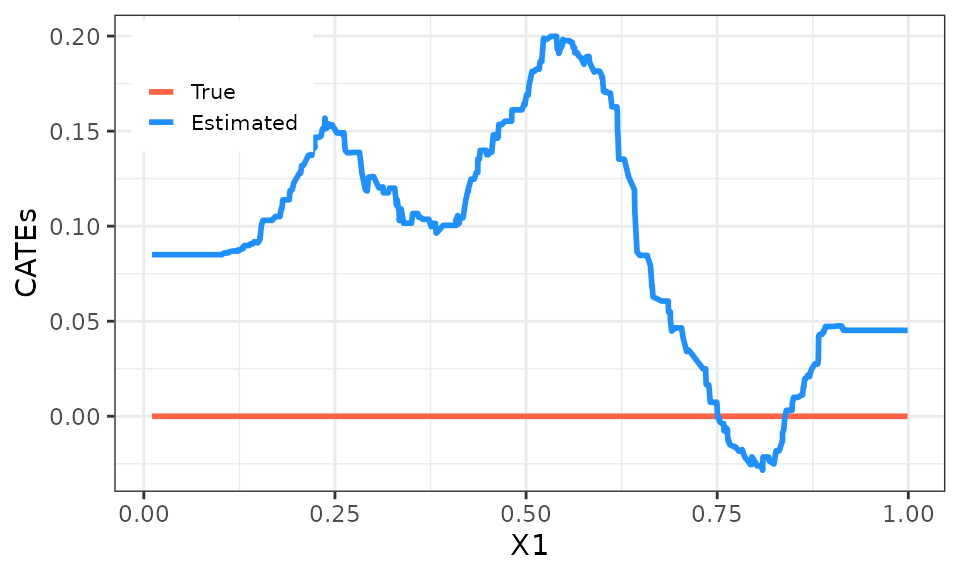
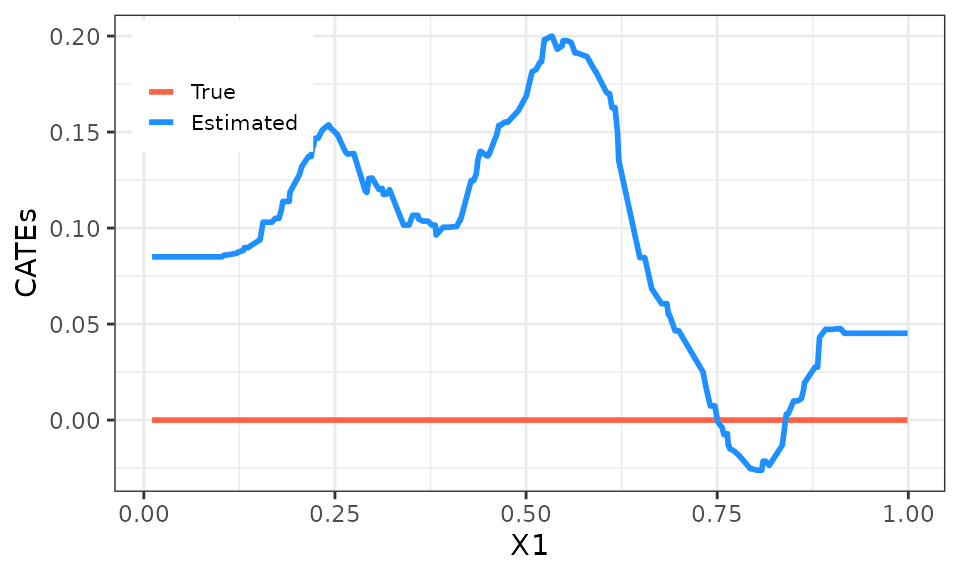
Deploying to gh-pages from @ riccardo-df/evaluCATE@b12cf13b4c23887a4d0b2b194d6a3c001fb44062 🚀

diff --git a/articles/evaluCATE-short-tutorial.html b/articles/evaluCATE-short-tutorial.html
@@ -180,14 +180,11 @@ heterogeneity.</p></li>
 <span></span>
 <span><span class="co">## CATEs estimation.</span></span>
 <span><span class="va">forest</span> <span class="op">&lt;-</span> <span class="fu"><a href="https://rdrr.io/pkg/grf/man/causal_forest.html" class="external-link">causal_forest</a></span><span class="op">(</span><span class="va">X_tr</span>, <span class="va">Y_tr</span>, <span class="va">D_tr</span><span class="op">)</span> <span class="co"># We use only the training sample.</span></span>
-<span><span class="va">forest_predictions</span> <span class="op">&lt;-</span> <span class="fu"><a href="https://rdrr.io/r/stats/predict.html" class="external-link">predict</a></span><span class="op">(</span><span class="va">forest</span>, <span class="va">X</span>, estimate.variance <span class="op">=</span> <span class="cn">TRUE</span><span class="op">)</span> <span class="co"># We predict on the full sample.</span></span>
-<span></span>
-<span><span class="va">cates</span> <span class="op">&lt;-</span> <span class="va">forest_predictions</span><span class="op">$</span><span class="va">predictions</span> </span>
-<span><span class="va">se</span> <span class="op">&lt;-</span> <span class="fu"><a href="https://rdrr.io/r/base/MathFun.html" class="external-link">sqrt</a></span><span class="op">(</span><span class="va">forest_predictions</span><span class="op">$</span><span class="va">variance.estimates</span><span class="op">)</span></span></code></pre></div>
+<span><span class="va">cates_val</span> <span class="op">&lt;-</span> <span class="fu"><a href="https://rdrr.io/r/stats/predict.html" class="external-link">predict</a></span><span class="op">(</span><span class="va">forest</span>, <span class="va">X_val</span><span class="op">)</span><span class="op">$</span><span class="va">predictions</span> <span class="co"># We predict on the validation sample.</span></span></code></pre></div>
 <p>We then display the out-of-sample estimated CATEs distribution:</p>
 <div class="sourceCode" id="cb3"><pre class="downlit sourceCode r">
 <code class="sourceCode R"><span><span class="co">## Plot out-of-sample predicted CATEs.</span></span>
-<span><span class="fu"><a href="https://rdrr.io/r/base/data.frame.html" class="external-link">data.frame</a></span><span class="op">(</span><span class="st">"cates"</span> <span class="op">=</span> <span class="va">cates</span><span class="op">[</span><span class="op">!</span><span class="va">train_idx</span><span class="op">]</span><span class="op">)</span> <span class="op">%&gt;%</span></span>
+<span><span class="fu"><a href="https://rdrr.io/r/base/data.frame.html" class="external-link">data.frame</a></span><span class="op">(</span><span class="st">"cates"</span> <span class="op">=</span> <span class="va">cates_val</span><span class="op">)</span> <span class="op">%&gt;%</span></span>
 <span>  <span class="fu">ggplot</span><span class="op">(</span><span class="fu">aes</span><span class="op">(</span>x <span class="op">=</span> <span class="va">cates</span><span class="op">)</span><span class="op">)</span> <span class="op">+</span></span>
 <span>  <span class="fu">geom_histogram</span><span class="op">(</span>color <span class="op">=</span> <span class="st">"black"</span>, fill <span class="op">=</span> <span class="st">"dodgerblue"</span>, alpha <span class="op">=</span> <span class="fl">0.4</span>, bins <span class="op">=</span> <span class="fl">10</span><span class="op">)</span> <span class="op">+</span> </span>
 <span>  <span class="fu">xlab</span><span class="op">(</span><span class="st">"Estimated CATEs"</span><span class="op">)</span> <span class="op">+</span> <span class="fu">ylab</span><span class="op">(</span><span class="st">"Density"</span><span class="op">)</span> <span class="op">+</span></span>
@@ -205,7 +202,7 @@ CATEs, as shown in the next figure where we overlay the true and the
 estimated CATEs.</p>
 <div class="sourceCode" id="cb4"><pre class="downlit sourceCode r">
 <code class="sourceCode R"><span><span class="co">## Plot true and estimated CATEs.</span></span>
-<span><span class="fu"><a href="https://rdrr.io/r/base/data.frame.html" class="external-link">data.frame</a></span><span class="op">(</span><span class="st">"x1"</span> <span class="op">=</span> <span class="va">X</span>, <span class="st">"true_cates"</span> <span class="op">=</span> <span class="va">mu1</span> <span class="op">-</span> <span class="va">mu0</span>, <span class="st">"estimated_cates"</span> <span class="op">=</span> <span class="va">cates</span><span class="op">)</span> <span class="op">%&gt;%</span></span>
+<span><span class="fu"><a href="https://rdrr.io/r/base/data.frame.html" class="external-link">data.frame</a></span><span class="op">(</span><span class="st">"x1"</span> <span class="op">=</span> <span class="va">X_val</span>, <span class="st">"true_cates"</span> <span class="op">=</span> <span class="va">mu1</span><span class="op">[</span><span class="op">!</span><span class="va">train_idx</span><span class="op">]</span> <span class="op">-</span> <span class="va">mu0</span><span class="op">[</span><span class="op">!</span><span class="va">train_idx</span><span class="op">]</span>, <span class="st">"estimated_cates"</span> <span class="op">=</span> <span class="va">cates_val</span><span class="op">)</span> <span class="op">%&gt;%</span></span>
 <span>  <span class="fu">melt</span><span class="op">(</span>id.vars <span class="op">=</span> <span class="st">"x1"</span><span class="op">)</span> <span class="op">%&gt;%</span></span>
 <span>  <span class="fu">ggplot</span><span class="op">(</span><span class="fu">aes</span><span class="op">(</span>x <span class="op">=</span> <span class="va">x1</span>, y <span class="op">=</span> <span class="va">value</span>, group <span class="op">=</span> <span class="va">variable</span>, color <span class="op">=</span> <span class="va">variable</span><span class="op">)</span><span class="op">)</span> <span class="op">+</span> </span>
 <span>  <span class="fu">geom_line</span><span class="op">(</span>linewidth <span class="op">=</span> <span class="fl">1</span><span class="op">)</span> <span class="op">+</span></span>
@@ -420,21 +417,18 @@ estimates can be used as an estimator of the standard error of <span class="math
 </h2>
 <p>The BLP, GATES, and RATEs can be estimated by calling the
 <code>evaluCATE</code> function. When calling this function, we need to
-supply the full sample using the first three arguments: <code>Y</code>,
-<code>D</code>, and <code>X</code>, corresponding to <span class="math inline">\(Y_i\)</span>, <span class="math inline">\(D_i\)</span>, and <span class="math inline">\(X_i\)</span>. Additionally, we must supply our
-CATE predictions on the full sample <span class="math inline">\(\hat{\tau} ( X_i )\)</span> obtained using only
-the training sample by using the <code>cates</code> argument. Finally,
-we must supply a logical vector with the <code>TRUE</code>s denoting
-those observations used to estimate the CATEs by using the
-<code>is_train</code> argument, so that the <code>evaluCATE</code>
-function knows which observations must be used to post-process our CATEs
-estimates.</p>
+supply our sample using the first six arguments: <code>Y_tr</code>,
+<code>Y_val</code>, <code>D_tr</code>, <code>D_val</code>,
+<code>X_tr</code>, and <code>X_val</code>, corresponding to <span class="math inline">\(Y_i\)</span>, <span class="math inline">\(D_i\)</span>, and <span class="math inline">\(X_i\)</span> separately for the training and
+validation subsamples. Additionally, we must supply our CATE predictions
+on the validation sample <span class="math inline">\(\hat{\tau} ( X_i
+)\)</span> by using the <code>cates_val</code> argument. Be careful, as
+these predictions must be produced by a model estimated using only the
+training sample.</p>
 <p>We also have four optional arguments that we can use to supply
-estimates of the nuisance functions <span class="math inline">\(p (
-\cdot )\)</span>, <span class="math inline">\(\mu ( \cdot )\)</span>,
-<span class="math inline">\(\mu_0 ( \cdot )\)</span>, and <span class="math inline">\(\mu_1 ( \cdot )\)</span>. Be careful, as these
-estimates must be obtained using only the training sample. If not
-provided by the user, these functions are estimated internally via
+predictins on the validation sample of the nuisance functions <span class="math inline">\(p ( \cdot )\)</span>, <span class="math inline">\(\mu ( \cdot )\)</span>, <span class="math inline">\(\mu_0 ( \cdot )\)</span>, and <span class="math inline">\(\mu_1 ( \cdot )\)</span>. Again, these predictions
+must be produced by models estimated using only the training sample. If
+not provided by the user, these functions are estimated internally via
 honest regression forests using only the training sample. In our
 Motivating Example, we have knowledge of the actual propensity score,
 which equals <span class="math inline">\(0.5\)</span> for all units. We
@@ -454,8 +448,8 @@ be beneficial, and we prevent the function from printing the
 progresses.</p>
 <div class="sourceCode" id="cb5"><pre class="downlit sourceCode r">
 <code class="sourceCode R"><span><span class="co">## Call main function.</span></span>
-<span><span class="va">pscore</span> <span class="op">&lt;-</span> <span class="fu"><a href="https://rdrr.io/r/base/rep.html" class="external-link">rep</a></span><span class="op">(</span><span class="fl">0.5</span>, <span class="fu"><a href="https://rdrr.io/r/base/length.html" class="external-link">length</a></span><span class="op">(</span><span class="va">Y</span><span class="op">)</span><span class="op">)</span> <span class="co"># True propensity scores.</span></span>
-<span><span class="va">evaluation</span> <span class="op">&lt;-</span> <span class="fu"><a href="../reference/evaluCATE.html">evaluCATE</a></span><span class="op">(</span><span class="va">Y</span>, <span class="va">D</span>, <span class="va">X</span>, <span class="va">cates</span>, <span class="va">train_idx</span>, pscore <span class="op">=</span> <span class="va">pscore</span>, verbose <span class="op">=</span> <span class="cn">FALSE</span><span class="op">)</span></span></code></pre></div>
+<span><span class="va">pscore_val</span> <span class="op">&lt;-</span> <span class="fu"><a href="https://rdrr.io/r/base/rep.html" class="external-link">rep</a></span><span class="op">(</span><span class="fl">0.5</span>, <span class="fu"><a href="https://rdrr.io/r/base/length.html" class="external-link">length</a></span><span class="op">(</span><span class="va">Y_val</span><span class="op">)</span><span class="op">)</span> <span class="co"># True propensity scores.</span></span>
+<span><span class="va">evaluation</span> <span class="op">&lt;-</span> <span class="fu"><a href="../reference/evaluCATE.html">evaluCATE</a></span><span class="op">(</span><span class="va">Y_tr</span>, <span class="va">Y_val</span>, <span class="va">D_tr</span>, <span class="va">D_val</span>, <span class="va">X_tr</span>, <span class="va">X_val</span>, <span class="va">cates_val</span>, pscore_val <span class="op">=</span> <span class="va">pscore_val</span>, verbose <span class="op">=</span> <span class="cn">FALSE</span><span class="op">)</span></span></code></pre></div>
 <p>Let us have a look at the results. The <code>summary</code> method
 allows us to visualize the results of the BLP and RATE estimation if the
 <code>target</code> argument is set to <code>BLP</code> or the results

diff --git a/reference/evaluCATE.html b/reference/evaluCATE.html
@@ -64,15 +64,17 @@ the estimated CATEs.</p>
 
     <div id="ref-usage">
     <div class="sourceCode"><pre class="sourceCode r"><code><span><span class="fu">evaluCATE</span><span class="op">(</span></span>
-<span>  <span class="va">Y</span>,</span>
-<span>  <span class="va">D</span>,</span>
-<span>  <span class="va">X</span>,</span>
-<span>  <span class="va">cates</span>,</span>
-<span>  <span class="va">is_train</span>,</span>
-<span>  pscore <span class="op">=</span> <span class="cn">NULL</span>,</span>
-<span>  mu <span class="op">=</span> <span class="cn">NULL</span>,</span>
-<span>  mu0 <span class="op">=</span> <span class="cn">NULL</span>,</span>
-<span>  mu1 <span class="op">=</span> <span class="cn">NULL</span>,</span>
+<span>  <span class="va">Y_tr</span>,</span>
+<span>  <span class="va">Y_val</span>,</span>
+<span>  <span class="va">D_tr</span>,</span>
+<span>  <span class="va">D_val</span>,</span>
+<span>  <span class="va">X_tr</span>,</span>
+<span>  <span class="va">X_val</span>,</span>
+<span>  <span class="va">cates_val</span>,</span>
+<span>  pscore_val <span class="op">=</span> <span class="cn">NULL</span>,</span>
+<span>  mu_val <span class="op">=</span> <span class="cn">NULL</span>,</span>
+<span>  mu0_val <span class="op">=</span> <span class="cn">NULL</span>,</span>
+<span>  mu1_val <span class="op">=</span> <span class="cn">NULL</span>,</span>
 <span>  n_groups <span class="op">=</span> <span class="fl">5</span>,</span>
 <span>  beneficial <span class="op">=</span> <span class="cn">TRUE</span>,</span>
 <span>  n_boot <span class="op">=</span> <span class="fl">200</span>,</span>
@@ -82,40 +84,48 @@ the estimated CATEs.</p>
 
     <div id="arguments">
     <h2>Arguments</h2>
-    <dl><dt>Y</dt>
-<dd><p>Observed outcomes.</p></dd>
+    <dl><dt>Y_tr</dt>
+<dd><p>Observed outcomes from the training sample.</p></dd>
 
 
-<dt>D</dt>
-<dd><p>Treatment indicator.</p></dd>
+<dt>Y_val</dt>
+<dd><p>Observed outcomes from the validation sample.</p></dd>
 
 
-<dt>X</dt>
-<dd><p>Covariate matrix (no intercept).</p></dd>
+<dt>D_tr</dt>
+<dd><p>Treatment indicator for the training sample.</p></dd>
 
 
-<dt>cates</dt>
-<dd><p>Estimated CATEs. Must be estimated using only the training sample.</p></dd>
+<dt>D_val</dt>
+<dd><p>Treatment indicator for the validation sample.</p></dd>
 
 
-<dt>is_train</dt>
-<dd><p>Logical vector denoting which observations belong to the training sample.</p></dd>
+<dt>X_tr</dt>
+<dd><p>Covariate matrix for the training sample (no intercept).</p></dd>
 
 
-<dt>pscore</dt>
-<dd><p>Propensity scores. If unknown, must be estimated using only the training sample.</p></dd>
+<dt>X_val</dt>
+<dd><p>Covariate matrix for the validation sample (no intercept).</p></dd>
 
 
-<dt>mu</dt>
-<dd><p>Estimated regression function. Must be estimated using only the training sample.</p></dd>
+<dt>cates_val</dt>
+<dd><p>CATE predictions on the validation sample. Must be produced by a model estimated using only the training sample.</p></dd>
 
 
-<dt>mu0</dt>
-<dd><p>Estimated regression function for control units. Must be estimated using only the training sample.</p></dd>
+<dt>pscore_val</dt>
+<dd><p>Propensity scores predictions on the validation sample. Must be produced by a model estimated using only the training sample (unless the propensity score is known, in which case we provide the true values).</p></dd>
 
 
-<dt>mu1</dt>
-<dd><p>Estimated regression function for treated units. Must be estimated using only the training sample.</p></dd>
+<dt>mu_val</dt>
+<dd><p>Conditional mean predictions on the validation sample. Must be produced by a model estimated using only the training sample.</p></dd>
+
+
+<dt>mu0_val</dt>
+<dd><p>Control units' conditional mean predictions on the validation sample. Must be produced by a model estimated using only the training sample.</p></dd>
+
+
+<dt>mu1_val</dt>
+<dd><p>Treated units' conditional mean predictions on the validation sample. Must be produced by a model estimated using only the training sample.</p></dd>
 
 
 <dt>n_groups</dt>
@@ -142,11 +152,8 @@ the estimated CATEs.</p>
     </div>
     <div id="details">
     <h2>Details</h2>
-    <p>To estimate BLP, GATES, and RATEs, the user must provide observations on the outcomes, the treatment status, and the covariates of units in the whole sample, as well
-as their estimated CATEs. Be careful, as although the CATEs must be estimated only with part of the sample (which we call the training sample), they must be predicted
-on the whole sample <code>X</code> when passed in <code>evaluCATE</code> (see the example section below).<br></p>
-<p>To let the function know which observations were used for the CATEs estimation, the user must also provide a logical vector with the <code>TRUE</code>s denoting observations in the
-training sample. This way, <code>evaluCATE</code> knows which observations to use to post-process the CATEs estimates.<br></p>
+    <p>To estimate BLP, GATES, and RATEs, the user must provide observations on the outcomes, the treatment status, and the covariates of units in the training and validation samples separately.
+Additionally, the user must provide CATE predictions on the validation sample obtained from a model estimated using only the training sample.<br></p>
 <p><code>evaluCATE</code> implements a number of strategies to estimate the BLP and the GATES. Most of them involve fitting a suitable linear model. The linear models differ according to the
 different identification strategies. Furthermore, for each strategy, there exist various sets of constructed covariates that one can add to reduce the variance of the estimation. <code>evaluCATE</code>
 fits and returns all these possible models. GATES are also estimated using a nonparametric approach. Check the online
@@ -204,11 +211,11 @@ via honest <code><a href="https://rdrr.io/pkg/grf/man/regression_forest.html" cl
 <span class="r-in"><span><span class="kw"><a href="https://rdrr.io/r/base/library.html" class="external-link">library</a></span><span class="op">(</span><span class="va"><a href="https://github.com/grf-labs/grf" class="external-link">grf</a></span><span class="op">)</span></span></span>
 <span class="r-in"><span></span></span>
 <span class="r-in"><span><span class="va">forest</span> <span class="op">&lt;-</span> <span class="fu"><a href="https://rdrr.io/pkg/grf/man/causal_forest.html" class="external-link">causal_forest</a></span><span class="op">(</span><span class="va">X_tr</span>, <span class="va">Y_tr</span>, <span class="va">D_tr</span><span class="op">)</span> <span class="co"># We use only the training sample.</span></span></span>
-<span class="r-in"><span><span class="va">cates</span> <span class="op">&lt;-</span> <span class="fu"><a href="https://rdrr.io/r/stats/predict.html" class="external-link">predict</a></span><span class="op">(</span><span class="va">forest</span>, <span class="va">X</span><span class="op">)</span><span class="op">$</span><span class="va">predictions</span> <span class="co"># We predict on the whole sample.</span></span></span>
+<span class="r-in"><span><span class="va">cates_val</span> <span class="op">&lt;-</span> <span class="fu"><a href="https://rdrr.io/r/stats/predict.html" class="external-link">predict</a></span><span class="op">(</span><span class="va">forest</span>, <span class="va">X_val</span><span class="op">)</span><span class="op">$</span><span class="va">predictions</span> <span class="co"># We predict on the validation sample.</span></span></span>
 <span class="r-in"><span></span></span>
 <span class="r-in"><span><span class="co">## CATEs evaluation. Estimate all nuisances internally. </span></span></span>
-<span class="r-in"><span><span class="va">pscore</span> <span class="op">&lt;-</span> <span class="fu"><a href="https://rdrr.io/r/base/rep.html" class="external-link">rep</a></span><span class="op">(</span><span class="fl">0.5</span>, <span class="fu"><a href="https://rdrr.io/r/base/length.html" class="external-link">length</a></span><span class="op">(</span><span class="va">Y</span><span class="op">)</span><span class="op">)</span></span></span>
-<span class="r-in"><span><span class="va">evaluation</span> <span class="op">&lt;-</span> <span class="fu">evaluCATE</span><span class="op">(</span><span class="va">Y</span>, <span class="va">D</span>, <span class="va">X</span>, <span class="va">cates</span>, <span class="va">train_idx</span>, pscore <span class="op">=</span> <span class="va">pscore</span><span class="op">)</span></span></span>
+<span class="r-in"><span><span class="va">pscore_val</span> <span class="op">&lt;-</span> <span class="fu"><a href="https://rdrr.io/r/base/rep.html" class="external-link">rep</a></span><span class="op">(</span><span class="fl">0.5</span>, <span class="fu"><a href="https://rdrr.io/r/base/length.html" class="external-link">length</a></span><span class="op">(</span><span class="va">Y_val</span><span class="op">)</span><span class="op">)</span></span></span>
+<span class="r-in"><span><span class="va">evaluation</span> <span class="op">&lt;-</span> <span class="fu">evaluCATE</span><span class="op">(</span><span class="va">Y_tr</span>, <span class="va">Y_val</span>, <span class="va">D_tr</span>, <span class="va">D_val</span>, <span class="va">X_tr</span>, <span class="va">X_val</span>, <span class="va">cates_val</span>, pscore_val <span class="op">=</span> <span class="va">pscore_val</span><span class="op">)</span></span></span>
 <span class="r-out co"><span class="r-pr">#&gt;</span> Estimating nuisance functions and AIPW scores; </span>
 <span class="r-out co"><span class="r-pr">#&gt;</span> BLP estimation; </span>
 <span class="r-out co"><span class="r-pr">#&gt;</span> GATES estimation; </span>

diff --git a/reference/plot.evaluCATE.html b/reference/plot.evaluCATE.html
@@ -119,11 +119,11 @@
 <span class="r-in"><span><span class="kw"><a href="https://rdrr.io/r/base/library.html" class="external-link">library</a></span><span class="op">(</span><span class="va"><a href="https://github.com/grf-labs/grf" class="external-link">grf</a></span><span class="op">)</span></span></span>
 <span class="r-in"><span></span></span>
 <span class="r-in"><span><span class="va">forest</span> <span class="op">&lt;-</span> <span class="fu"><a href="https://rdrr.io/pkg/grf/man/causal_forest.html" class="external-link">causal_forest</a></span><span class="op">(</span><span class="va">X_tr</span>, <span class="va">Y_tr</span>, <span class="va">D_tr</span><span class="op">)</span> <span class="co"># We use only the training sample.</span></span></span>
-<span class="r-in"><span><span class="va">cates</span> <span class="op">&lt;-</span> <span class="fu"><a href="https://rdrr.io/r/stats/predict.html" class="external-link">predict</a></span><span class="op">(</span><span class="va">forest</span>, <span class="va">X</span><span class="op">)</span><span class="op">$</span><span class="va">predictions</span> <span class="co"># We predict on the whole sample.</span></span></span>
+<span class="r-in"><span><span class="va">cates_val</span> <span class="op">&lt;-</span> <span class="fu"><a href="https://rdrr.io/r/stats/predict.html" class="external-link">predict</a></span><span class="op">(</span><span class="va">forest</span>, <span class="va">X_val</span><span class="op">)</span><span class="op">$</span><span class="va">predictions</span> <span class="co"># We predict on the validation sample.</span></span></span>
 <span class="r-in"><span></span></span>
 <span class="r-in"><span><span class="co">## CATEs evaluation. Estimate all nuisances internally. </span></span></span>
-<span class="r-in"><span><span class="va">pscore</span> <span class="op">&lt;-</span> <span class="fu"><a href="https://rdrr.io/r/base/rep.html" class="external-link">rep</a></span><span class="op">(</span><span class="fl">0.5</span>, <span class="fu"><a href="https://rdrr.io/r/base/length.html" class="external-link">length</a></span><span class="op">(</span><span class="va">Y</span><span class="op">)</span><span class="op">)</span></span></span>
-<span class="r-in"><span><span class="va">evaluation</span> <span class="op">&lt;-</span> <span class="fu"><a href="evaluCATE.html">evaluCATE</a></span><span class="op">(</span><span class="va">Y</span>, <span class="va">D</span>, <span class="va">X</span>, <span class="va">cates</span>, <span class="va">train_idx</span>, pscore <span class="op">=</span> <span class="va">pscore</span><span class="op">)</span></span></span>
+<span class="r-in"><span><span class="va">pscore_val</span> <span class="op">&lt;-</span> <span class="fu"><a href="https://rdrr.io/r/base/rep.html" class="external-link">rep</a></span><span class="op">(</span><span class="fl">0.5</span>, <span class="fu"><a href="https://rdrr.io/r/base/length.html" class="external-link">length</a></span><span class="op">(</span><span class="va">Y_val</span><span class="op">)</span><span class="op">)</span></span></span>
+<span class="r-in"><span><span class="va">evaluation</span> <span class="op">&lt;-</span> <span class="fu"><a href="evaluCATE.html">evaluCATE</a></span><span class="op">(</span><span class="va">Y_tr</span>, <span class="va">Y_val</span>, <span class="va">D_tr</span>, <span class="va">D_val</span>, <span class="va">X_tr</span>, <span class="va">X_val</span>, <span class="va">cates_val</span>, pscore_val <span class="op">=</span> <span class="va">pscore_val</span><span class="op">)</span></span></span>
 <span class="r-out co"><span class="r-pr">#&gt;</span> Estimating nuisance functions and AIPW scores; </span>
 <span class="r-out co"><span class="r-pr">#&gt;</span> BLP estimation; </span>
 <span class="r-out co"><span class="r-pr">#&gt;</span> GATES estimation; </span>

diff --git a/reference/print.evaluCATE.html b/reference/print.evaluCATE.html
@@ -131,11 +131,11 @@
 <span class="r-in"><span><span class="kw"><a href="https://rdrr.io/r/base/library.html" class="external-link">library</a></span><span class="op">(</span><span class="va"><a href="https://github.com/grf-labs/grf" class="external-link">grf</a></span><span class="op">)</span></span></span>
 <span class="r-in"><span></span></span>
 <span class="r-in"><span><span class="va">forest</span> <span class="op">&lt;-</span> <span class="fu"><a href="https://rdrr.io/pkg/grf/man/causal_forest.html" class="external-link">causal_forest</a></span><span class="op">(</span><span class="va">X_tr</span>, <span class="va">Y_tr</span>, <span class="va">D_tr</span><span class="op">)</span> <span class="co"># We use only the training sample.</span></span></span>
-<span class="r-in"><span><span class="va">cates</span> <span class="op">&lt;-</span> <span class="fu"><a href="https://rdrr.io/r/stats/predict.html" class="external-link">predict</a></span><span class="op">(</span><span class="va">forest</span>, <span class="va">X</span><span class="op">)</span><span class="op">$</span><span class="va">predictions</span> <span class="co"># We predict on the whole sample.</span></span></span>
+<span class="r-in"><span><span class="va">cates_val</span> <span class="op">&lt;-</span> <span class="fu"><a href="https://rdrr.io/r/stats/predict.html" class="external-link">predict</a></span><span class="op">(</span><span class="va">forest</span>, <span class="va">X_val</span><span class="op">)</span><span class="op">$</span><span class="va">predictions</span> <span class="co"># We predict on the validation sample.</span></span></span>
 <span class="r-in"><span></span></span>
 <span class="r-in"><span><span class="co">## CATEs evaluation. Estimate all nuisances internally. </span></span></span>
-<span class="r-in"><span><span class="va">pscore</span> <span class="op">&lt;-</span> <span class="fu"><a href="https://rdrr.io/r/base/rep.html" class="external-link">rep</a></span><span class="op">(</span><span class="fl">0.5</span>, <span class="fu"><a href="https://rdrr.io/r/base/length.html" class="external-link">length</a></span><span class="op">(</span><span class="va">Y</span><span class="op">)</span><span class="op">)</span></span></span>
-<span class="r-in"><span><span class="va">evaluation</span> <span class="op">&lt;-</span> <span class="fu"><a href="evaluCATE.html">evaluCATE</a></span><span class="op">(</span><span class="va">Y</span>, <span class="va">D</span>, <span class="va">X</span>, <span class="va">cates</span>, <span class="va">train_idx</span>, pscore <span class="op">=</span> <span class="va">pscore</span><span class="op">)</span></span></span>
+<span class="r-in"><span><span class="va">pscore_val</span> <span class="op">&lt;-</span> <span class="fu"><a href="https://rdrr.io/r/base/rep.html" class="external-link">rep</a></span><span class="op">(</span><span class="fl">0.5</span>, <span class="fu"><a href="https://rdrr.io/r/base/length.html" class="external-link">length</a></span><span class="op">(</span><span class="va">Y_val</span><span class="op">)</span><span class="op">)</span></span></span>
+<span class="r-in"><span><span class="va">evaluation</span> <span class="op">&lt;-</span> <span class="fu"><a href="evaluCATE.html">evaluCATE</a></span><span class="op">(</span><span class="va">Y_tr</span>, <span class="va">Y_val</span>, <span class="va">D_tr</span>, <span class="va">D_val</span>, <span class="va">X_tr</span>, <span class="va">X_val</span>, <span class="va">cates_val</span>, pscore_val <span class="op">=</span> <span class="va">pscore_val</span><span class="op">)</span></span></span>
 <span class="r-out co"><span class="r-pr">#&gt;</span> Estimating nuisance functions and AIPW scores; </span>
 <span class="r-out co"><span class="r-pr">#&gt;</span> BLP estimation; </span>
 <span class="r-out co"><span class="r-pr">#&gt;</span> GATES estimation; </span>

diff --git a/reference/summary.evaluCATE.html b/reference/summary.evaluCATE.html
@@ -135,11 +135,11 @@
 <span class="r-in"><span><span class="kw"><a href="https://rdrr.io/r/base/library.html" class="external-link">library</a></span><span class="op">(</span><span class="va"><a href="https://github.com/grf-labs/grf" class="external-link">grf</a></span><span class="op">)</span></span></span>
 <span class="r-in"><span></span></span>
 <span class="r-in"><span><span class="va">forest</span> <span class="op">&lt;-</span> <span class="fu"><a href="https://rdrr.io/pkg/grf/man/causal_forest.html" class="external-link">causal_forest</a></span><span class="op">(</span><span class="va">X_tr</span>, <span class="va">Y_tr</span>, <span class="va">D_tr</span><span class="op">)</span> <span class="co"># We use only the training sample.</span></span></span>
-<span class="r-in"><span><span class="va">cates</span> <span class="op">&lt;-</span> <span class="fu"><a href="https://rdrr.io/r/stats/predict.html" class="external-link">predict</a></span><span class="op">(</span><span class="va">forest</span>, <span class="va">X</span><span class="op">)</span><span class="op">$</span><span class="va">predictions</span> <span class="co"># We predict on the whole sample.</span></span></span>
+<span class="r-in"><span><span class="va">cates_val</span> <span class="op">&lt;-</span> <span class="fu"><a href="https://rdrr.io/r/stats/predict.html" class="external-link">predict</a></span><span class="op">(</span><span class="va">forest</span>, <span class="va">X_val</span><span class="op">)</span><span class="op">$</span><span class="va">predictions</span> <span class="co"># We predict on the validation sample.</span></span></span>
 <span class="r-in"><span></span></span>
 <span class="r-in"><span><span class="co">## CATEs evaluation. Estimate all nuisances internally. </span></span></span>
-<span class="r-in"><span><span class="va">pscore</span> <span class="op">&lt;-</span> <span class="fu"><a href="https://rdrr.io/r/base/rep.html" class="external-link">rep</a></span><span class="op">(</span><span class="fl">0.5</span>, <span class="fu"><a href="https://rdrr.io/r/base/length.html" class="external-link">length</a></span><span class="op">(</span><span class="va">Y</span><span class="op">)</span><span class="op">)</span></span></span>
-<span class="r-in"><span><span class="va">evaluation</span> <span class="op">&lt;-</span> <span class="fu"><a href="evaluCATE.html">evaluCATE</a></span><span class="op">(</span><span class="va">Y</span>, <span class="va">D</span>, <span class="va">X</span>, <span class="va">cates</span>, <span class="va">train_idx</span>, pscore <span class="op">=</span> <span class="va">pscore</span><span class="op">)</span></span></span>
+<span class="r-in"><span><span class="va">pscore_val</span> <span class="op">&lt;-</span> <span class="fu"><a href="https://rdrr.io/r/base/rep.html" class="external-link">rep</a></span><span class="op">(</span><span class="fl">0.5</span>, <span class="fu"><a href="https://rdrr.io/r/base/length.html" class="external-link">length</a></span><span class="op">(</span><span class="va">Y_val</span><span class="op">)</span><span class="op">)</span></span></span>
+<span class="r-in"><span><span class="va">evaluation</span> <span class="op">&lt;-</span> <span class="fu"><a href="evaluCATE.html">evaluCATE</a></span><span class="op">(</span><span class="va">Y_tr</span>, <span class="va">Y_val</span>, <span class="va">D_tr</span>, <span class="va">D_val</span>, <span class="va">X_tr</span>, <span class="va">X_val</span>, <span class="va">cates_val</span>, pscore_val <span class="op">=</span> <span class="va">pscore_val</span><span class="op">)</span></span></span>
 <span class="r-out co"><span class="r-pr">#&gt;</span> Estimating nuisance functions and AIPW scores; </span>
 <span class="r-out co"><span class="r-pr">#&gt;</span> BLP estimation; </span>
 <span class="r-out co"><span class="r-pr">#&gt;</span> GATES estimation; </span>

diff --git a/reference/blp_estimation.html b/reference/blp_estimation.html
@@ -73,27 +73,27 @@
 
 
 <dt>cates</dt>
-<dd><p>Estimated CATEs. Must be estimated with different observations than those in <code>Y</code> and <code>D</code>.</p></dd>
+<dd><p>CATE predictions. Must be produced by a model estimated using different observations than those in <code>Y</code> and <code>D</code>.</p></dd>
 
 
 <dt>pscore</dt>
-<dd><p>Propensity scores. If unknown, must be estimated using different observations than those in <code>Y</code> and <code>D</code>.</p></dd>
+<dd><p>Propensity scores predictions. Must be produced by a model estimated using different observations than those in <code>Y</code> and <code>D</code> (unless the propensity score is known, in which case we provide the true values).</p></dd>
 
 
 <dt>mu</dt>
-<dd><p>Estimated regression function. Must be estimated with different observations than those in <code>Y</code> and <code>D</code>.</p></dd>
+<dd><p>Conditional mean predictions. Must be produced by a model estimated using different observations than those in <code>Y</code> and <code>D</code></p></dd>
 
 
 <dt>mu0</dt>
-<dd><p>Estimated regression function for control units. Must be estimated with different observations than those in <code>Y</code> and <code>D</code>.</p></dd>
+<dd><p>Control units' conditional mean predictions. Must be produced by a model estimated using different observations than those in <code>Y</code> and <code>D</code></p></dd>
 
 
 <dt>mu1</dt>
-<dd><p>Estimated regression function for treated units. Must be estimated with different observations than those in <code>Y</code> and <code>D</code>.</p></dd>
+<dd><p>Treated units' conditional mean predictions. Must be produced by a model estimated using different observations than those in <code>Y</code> and <code>D</code></p></dd>
 
 
 <dt>scores</dt>
-<dd><p>Estimated doubly-robust scores. Must be estimated via K-fold cross-fitting with the same observations as in <code>Y</code> and <code>D</code>.</p></dd>
+<dd><p>Estimated doubly-robust scores. Must be estimated via K-fold cross-fitting using the same observations as in <code>Y</code> and <code>D</code>.</p></dd>
 
 </dl></div>
     <div id="value">

diff --git a/reference/gates_estimation.html b/reference/gates_estimation.html
@@ -73,27 +73,27 @@
 
 
 <dt>cates</dt>
-<dd><p>Estimated CATEs. Must be estimated with different observations than those in <code>Y</code> and <code>D</code>.</p></dd>
+<dd><p>CATE predictions. Must be produced by a model estimated using different observations than those in <code>Y</code> and <code>D</code>.</p></dd>
 
 
 <dt>pscore</dt>
-<dd><p>Propensity scores. If unknown, must be estimated using different observations than those in <code>Y</code> and <code>D</code>.</p></dd>
+<dd><p>Propensity scores predictions. Must be produced by a model estimated using different observations than those in <code>Y</code> and <code>D</code> (unless the propensity score is known, in which case we provide the true values).</p></dd>
 
 
 <dt>mu</dt>
-<dd><p>Estimated regression function. Must be estimated with different observations than those in <code>Y</code> and <code>D</code>.</p></dd>
+<dd><p>Conditional mean predictions. Must be produced by a model estimated using different observations than those in <code>Y</code> and <code>D</code></p></dd>
 
 
 <dt>mu0</dt>
-<dd><p>Estimated regression function for control units. Must be estimated with different observations than those in <code>Y</code> and <code>D</code>.</p></dd>
+<dd><p>Control units' conditional mean predictions. Must be produced by a model estimated using different observations than those in <code>Y</code> and <code>D</code></p></dd>
 
 
 <dt>mu1</dt>
-<dd><p>Estimated regression function for treated units. Must be estimated with different observations than those in <code>Y</code> and <code>D</code>.</p></dd>
+<dd><p>Treated units' conditional mean predictions. Must be produced by a model estimated using different observations than those in <code>Y</code> and <code>D</code></p></dd>
 
 
 <dt>scores</dt>
-<dd><p>Estimated doubly-robust scores. Must be estimated via K-fold cross-fitting with the same observations as in <code>Y</code> and <code>D</code>.</p></dd>
+<dd><p>Estimated doubly-robust scores. Must be estimated via K-fold cross-fitting using the same observations as in <code>Y</code> and <code>D</code>.</p></dd>
 
 
 <dt>n_groups</dt>

diff --git a/articles/denoising.html b/articles/denoising.html
@@ -115,7 +115,7 @@ honest regression forests using only the training sample.</p>
 <p>Suppose that we assign the results of the <code>evaluCATE</code>
 function call to a variable called <code>evaluation</code>.</p>
 <div class="sourceCode" id="cb1"><pre class="downlit sourceCode r">
-<code class="sourceCode R"><span><span class="va">evaluation</span> <span class="op">&lt;-</span> <span class="fu"><a href="../reference/evaluCATE.html">evaluCATE</a></span><span class="op">(</span><span class="va">Y</span>, <span class="va">D</span>, <span class="va">X</span>, <span class="va">cates</span>, is_train <span class="op">=</span> <span class="va">train_idx</span><span class="op">)</span></span></code></pre></div>
+<code class="sourceCode R"><span><span class="va">evaluation</span> <span class="op">&lt;-</span> <span class="fu"><a href="../reference/evaluCATE.html">evaluCATE</a></span><span class="op">(</span><span class="va">Y_tr</span>, <span class="va">Y_val</span>, <span class="va">D_tr</span>, <span class="va">D_val</span>, <span class="va">X_tr</span>, <span class="va">X_val</span>, <span class="va">cates_val</span><span class="op">)</span></span></code></pre></div>
 <p>In the following, we list the covariates that are included in the
 fitted models returned by the <code>evaluCATE</code> function.</p>
 <div class="section level3">
